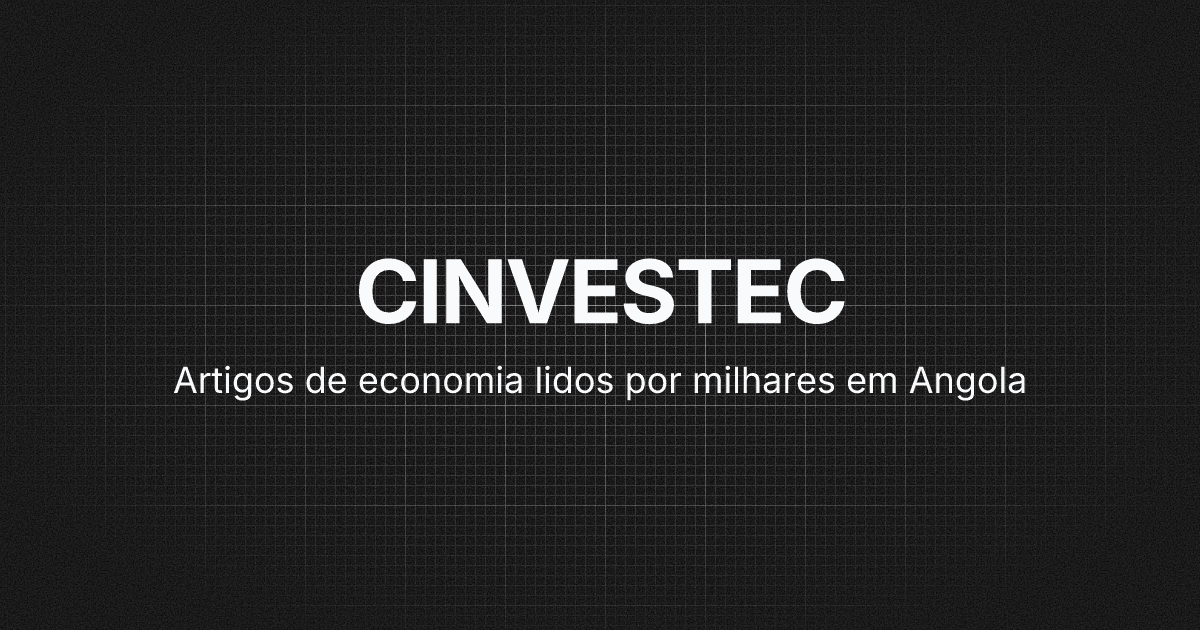
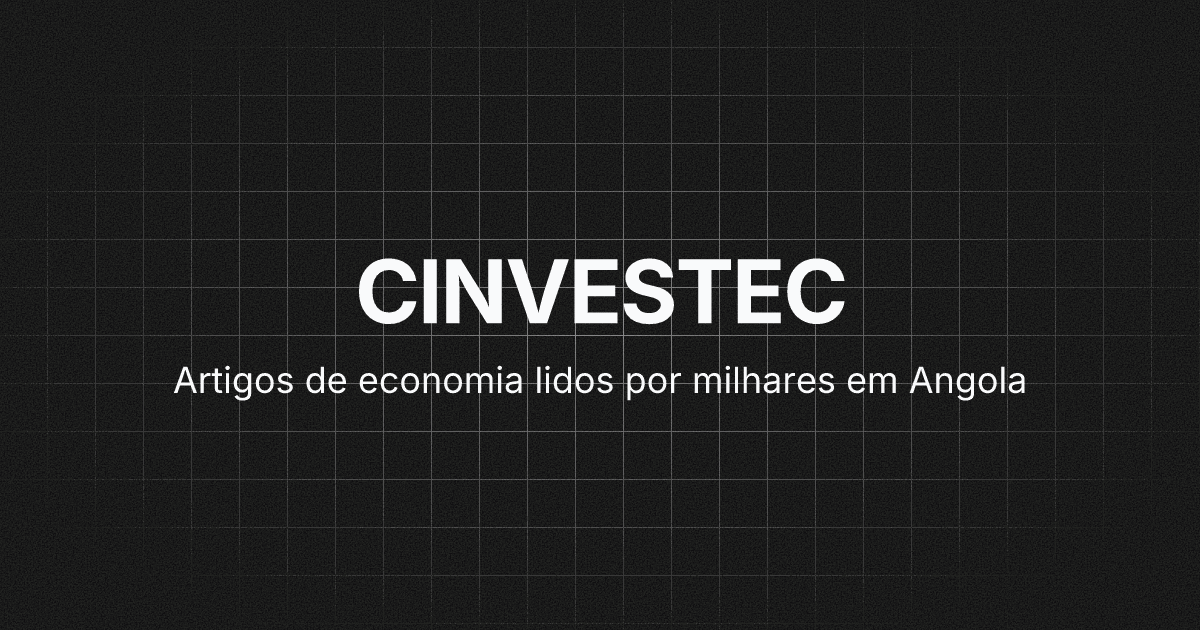
feat: update portfolio content and images

Changed region(s): [[0.1542, 0.1508, 0.8633, 0.8444], [0.8325, 0.6333, 0.8633, 0.6635], [0.0925, 0.3016, 0.1233, 0.3317]]

diff --git a/src/lib/data.tsx b/src/lib/data.tsx
@@ -25,56 +25,45 @@ export const links = [
 
 export const projectsData = [
   {
-    image: '/images/chat-bull.png',
-    title: 'Chat Bull - chat.bull.africa',
-    description:
-      'Devido à falta de ferramentas acessíveis para jovens empreendedores de IA em África, criou uma aplicação social gratuita e de código aberto, que qualquer pessoa pode auditar, copiar ou melhorar. Já impactou positivamente milhares de pessoas.',
-
-    technologies: ['Next.js 15', 'AI-SDK 5', 'Código Aberto', 'Chat de IA'],
-    links: {
-      preview: 'https://github.com/dreemrworld/chat.bull.africa',
-    },
-  },
-  {
-    image: '/images/nota-bene.png',
-    title: 'Nota Bene – nb.bull.africa',
-    description:
-      'As soluções em nuvem comprometem a privacidade dos seus apontamentos de investigação. Desenvolveu uma app que guarda tudo localmente, no dispositivo do utilizador, sem usar a nuvem. Os dados ficam mais seguros, privados — e o código é aberto.',
-    technologies: ['React', 'Vite', 'TipTap', 'Cloudflare'],
-    links: {
-      preview: 'https://nb.bull.africa',
-    },
-  },
-  {
-    image: '/images/editor-html.png',
-    title: 'Editor de HTML - html.bull.africa',
-    description:
-      'Dependia de um editor online cheio de publicidade. Criou a sua própria versão: limpa, funcional e de código aberto, sem anúncios e com total transparência.',
-    technologies: ['HTML5', 'CSS3', 'JavaScript', 'Cloudflare'],
-    links: {
-      preview: 'https://github.com/dreemrworld/html-wysiwyg',
-    },
-  },
-  {
-    image: '/images/chat-goat.png',
-    title: 'Chat GOAT- chat.goat.africa',
-    description:
-      'Para construir um assistente de IA verdadeiramente útil, criou o Pingo AI: uma aplicação completa, com autenticação e base de dados própria, capaz de responder, raciocinar, traduzir, gerar documentos e programar. É usada por 3 mil pessoas por mês.',
-    technologies: ['Next.js', 'AI-SDK', 'Vercel'],
-    links: {
-      preview: 'https://chat.goat.africa',
-    },
-  },
-  {
     image: '/images/auditoria-publica.png',
     title:
       'Auditoria do Sector Público: ferramentas digitais para aumentar a eficiência e eficácia',
     description:
-      'A auditoria pública carece de inovação metodológica. Desenvolveu uma investigação pioneira sobre auditorias de desempenho com tecnologias emergentes. Foi nomeada para o prémio de melhor pesquisa pelo Tribunal de Contas Europeu e orientada pelo ex-presidente da instituição.',
-    technologies: ['Blockchain', 'IoT', 'IA'],
+      'A auditoria pública carece de inovação metodológica. Desenvolveu uma investigação pioneira sobre auditorias de desempenho com tecnologias emergentes. Foi nomeada para o prémio de melhor pesquisa pelo Tribunal de Contas Europeu.',
+    technologies: ['Blockchain', 'Auditoria', 'IA'],
     links: {
       preview:
         'https://www.agora-parl.org/sites/default/files/palop-publications/PALOP-TL%202022%20Volume%20II.pdf',
+    },
+  },
+  {
+    image: '/images/ecobate.png',
+    title: 'European Conference on Banking and Economy 2024',
+    description:
+      'É necessário mais diálogo sobre as fintechs emergentes. Participou como palestrante convidado na ECOBATE 2024, realizada na University of Winchester e organizada pela Association for Research on Banking and the Economy (ARBE) e pelo Centre for Banking, Finance and Sustainable Development (CBFSD) da University of Southampton.',
+    technologies: ['Fintech', 'Banca', 'Economia'],
+    links: {
+      preview: '',
+    },
+  },
+  {
+    image: '/images/isc-2023.png',
+    title: 'International Scientific Conference on Blockchain 2023',
+    description:
+      'O potencial do blockchain em governança pública merece mais atenção. Apresentou as suas ideias na International Scientific Conference on Blockchain em Manchester organizado pela British Blockchain Association (BBA).',
+    technologies: ['Blockchain', 'Auditoria', 'IA'],
+    links: {
+      preview: '',
+    },
+  },
+  {
+    image: '/images/aru.png',
+    title: 'Reconhecimentos da Anglia Ruskin University',
+    description:
+      'Entre 133 mil alumni, a universidade distingue mensalmente quem se destaca globalmente. Foi nomeado Alumni do Mês de março de 2024 e está nomeado para Alumni do Ano.',
+    technologies: ['Alumni do Mês', 'ARU', 'Mestrado'],
+    links: {
+      preview: '',
     },
   },
   {
@@ -98,28 +87,49 @@ export const projectsData = [
     },
   },
   {
-    image: '/images/ecobate.png',
-    title: 'ECOBATE 2024',
+    image: '/images/chat-bull.png',
+    title: 'Chat Bull - chat.bull.africa',
     description:
-      'É necessário mais diálogo entre África e a Europa sobre finanças e tecnologia. Participou como palestrante convidado na European Conference on Banking and the Economy 2024, em Winchester.',
-    technologies: ['Blockchain', 'IoT', 'IA'],
+      'Devido à falta de ferramentas acessíveis para startups de IA em África, criou um chatbot moderno, gratuito e de código aberto, com armazenamento local, pesquisa na internet e capacidade de ler respostas em voz alta. Já impactou milhares de pessoas.',
+
+    technologies: ['Next.js', 'IA', 'Cloudflare'],
     links: {
-      preview: '',
+      preview: 'https://github.com/dreemrworld/chat.bull.africa',
     },
   },
   {
-    image: '/images/isc-2023.png',
-    title: 'ISC 2023',
+    image: '/images/chat-goat.png',
+    title: 'Chat GOAT- chat.goat.africa',
     description:
-      'O potencial do blockchain em governança pública merece mais atenção. Apresentou as suas ideias na International Scientific Conference on Blockchain em Manchester.',
-    technologies: ['Blockchain', 'IoT', 'IA'],
+      'Para construir um assistente de IA verdadeiramente útil, criou o Pingo AI: uma aplicação completa, com autenticação e base de dados própria, capaz de responder, raciocinar, traduzir, gerar documentos e programar. É usada por 3 mil pessoas por mês.',
+    technologies: ['Next.js', 'IA', 'Vercel'],
     links: {
-      preview: '',
+      preview: 'https://chat.goat.africa',
+    },
+  },
+  {
+    image: '/images/nota-bene.png',
+    title: 'Nota Bene – nb.bull.africa',
+    description:
+      'As soluções em nuvem comprometem a privacidade dos seus apontamentos de investigação. Desenvolveu uma app que guarda tudo localmente, no dispositivo do utilizador, sem usar a nuvem. Os dados ficam mais seguros, privados — e o código é aberto.',
+    technologies: ['React', 'Vite', 'TipTap', 'Cloudflare'],
+    links: {
+      preview: 'https://nb.bull.africa',
+    },
+  },
+  {
+    image: '/images/editor-html.png',
+    title: 'Editor de HTML - html.bull.africa',
+    description:
+      'Dependia de um editor online cheio de publicidade. Criou a sua própria versão: limpa, funcional e de código aberto, sem anúncios e com total transparência.',
+    technologies: ['HTML5', 'CSS3', 'JavaScript', 'Cloudflare'],
+    links: {
+      preview: 'https://github.com/dreemrworld/html-wysiwyg',
     },
   },
   {
     image: '/images/history-finance.png',
-    title: 'History of Finance - Medici to BTC',
+    title: 'History of Finance: from Medici to BTC',
     description:
       'Prever crises exige entender os ciclos históricos. Criou um infográfico que mapeia bolhas financeiras ao longo dos séculos — para facilitar previsões mais informadas.',
     technologies: ['História', 'Finanças', 'Bolhas'],
@@ -128,18 +138,8 @@ export const projectsData = [
     },
   },
   {
-    image: '/images/aru.png',
-    title: 'Reconhecimentos da Anglia Ruskin University',
-    description:
-      'Entre 133 mil alumni, a universidade distingue mensalmente quem se destaca globalmente. Foi nomeado Alumni do Mês de março de 2024 e está nomeado para Alumni do Ano.',
-    technologies: ['Alumni do Mês', 'Anglia Ruskin University', 'Mestrado'],
-    links: {
-      preview: '',
-    },
-  },
-  {
     image: '/images/currency.png',
-    title: 'Currency Converter Pro',
+    title: 'Conversor de moeda',
     description:
       'Em Angola, acompanhar as flutuações cambiais é essencial mas muitas ferramentas são lentas ou pagas. Criou uma app leve e gratuita que mostra mais de 100 moedas em tempo real, com gráficos históricos para análise rápida e informada.',
     technologies: ['Vibe Coding', 'APIs de Câmbio', 'Gráficos Interativos'],
@@ -169,6 +169,26 @@ export const projectsData = [
     ],
     links: {
       preview: 'https://tca-es5.pages.dev/',
+    },
+  },
+  {
+    image: '/images/loja.png',
+    title: 'Loja online de tecnologia',
+    description:
+      'Devido à falta de templates de e‑commerce simples, completos e gratuitos para mercados emergentes, criou uma loja demo funcional com HTML, CSS, JavaScript e API integrada — incluindo página de checkout realista. É um modelo pronto a usar por qualquer empreendedor que queira vender produtos online sem depender de plataformas pagas.',
+    technologies: ['HTML', 'CSS', 'Javascript'],
+    links: {
+      preview: 'https://shopgoat.pages.dev',
+    },
+  },
+  {
+    image: '/images/catalogo.png',
+    title: 'Catálogo digital - shop.goat.africa',
+    description:
+      'Gerir um catálogo de produtos em Angola é desafiante sem soluções acessíveis. Desenvolveu um website de catálogo que se atualiza automaticamente a partir de uma folha do Google Sheets. Basta editar a tabela para que o site reflita as mudanças em tempo real, tornando-o ideal para pequenos negócios em contextos de recursos limitados.',
+    technologies: ['HTML', 'CSS', 'Javascript'],
+    links: {
+      preview: 'https://shop.goat.africa',
     },
   },
 ] as const;

diff --git a/src/app/layout.tsx b/src/app/layout.tsx
@@ -34,7 +34,7 @@ export const metadata: Metadata = {
     siteName: siteConfig.title, // Often the same as the main title
     images: [
       {
-        url: `${siteConfig.url}/images/og-image.jpg`, // Absolute URL to your OG image
+        url: `${siteConfig.url}/images/og-image.png`, // Absolute URL to your OG image
         width: 1200, // Recommended width
         height: 630, // Recommended height
         alt: siteConfig.title, // Alt text for accessibility and SEO
@@ -48,14 +48,16 @@ export const metadata: Metadata = {
     card: 'summary_large_image', // Use 'summary_large_image' for a prominent image
     title: siteConfig.title,
     description: siteConfig.description,
-    images: [`${siteConfig.url}/images/og-image.jpg`], // Absolute URL to your OG image
+    images: [`${siteConfig.url}/images/og-image.png`], // Absolute URL to your OG image
   },
 };
 const RootLayout = ({ children }: PropsWithChildren) => {
   return (
     <html lang="en" suppressHydrationWarning>
       <body className={cn('min-h-screen font-sans', fonts)}>
-        <div className="fixed left-0 top-0 z-[-2] size-full bg-white bg-[radial-gradient(100%_50%_at_50%_0%,rgba(0,163,255,0.13)_0,rgba(0,163,255,0)_50%,rgba(0,163,255,0)_100%)] dark:bg-gray-950 dark:bg-[radial-gradient(100%_50%_at_50%_0%,rgba(0,163,255,0.05)_0,rgba(0,163,255,0)_50%,rgba(0,163,255,0)_100%)]" />
+        <div className="fixed left-0 top-0 z-[-2] size-full bg-white dark:bg-gray-950">
+          <div className="absolute size-full bg-[radial-gradient(#e5e7eb_1px,transparent_1px)] [background-size:16px_16px] [mask-image:radial-gradient(ellipse_50%_50%_at_50%_50%,#000_30%,transparent_100%)] dark:bg-[radial-gradient(#374151_1px,transparent_1px)]" />
+        </div>
         <ThemeProvider attribute="class">
           <ActiveSectionProvider>
             {children}

diff --git a/src/lib/site-config.ts b/src/lib/site-config.ts
@@ -1,12 +1,12 @@
 import { env } from '@/env.mjs';
 
 export const siteConfig = {
-  title: 'Carlos Araújo | Programador Full Stack',
+  title: 'Carlos Araújo | Portfólio',
   description:
-    'Olá, sou o Carlos Araújo, um empreendedor tecnológico em Angola. Bem-vindo ao meu perfil de programador. Vamos conectar.',
+    'Fundador da startup angolana Gestão Otimização e Aceleração Tecnológica (GOAT). Disponível para consultoria técnica, transformação digital e desenvolvimento de software.',
   keywords: [
     'Carlos Araújo',
-    'Programador Full Stack',
+    'Programador ',
     'Angola',
     'React',
     'Next.js',
@@ -21,10 +21,12 @@ export const siteConfig = {
     'Projetos',
     'Website',
     'Aplicações Web',
-    'Programador',
+    'Consultoria empresarial',
     'Código',
     'Programação',
     'Entusiasta da Tecnologia',
+    'Inteligência Artificial',
+    'Auditoria Pública',
   ],
   url: env.SITE_URL || 'https://carlos.goat.africa',
   googleSiteVerificationId: env.GOOGLE_SITE_VERIFICATION_ID || '',

diff --git a/src/components/project.tsx b/src/components/project.tsx
@@ -39,7 +39,7 @@ export const Project = ({ project, index }: TProps) => {
         once: true,
       }}
       custom={index}
-      className="flex flex-col rounded border p-5"
+      className="bg-background/80 flex flex-col rounded-lg border border-white/20 p-5 shadow-md backdrop-blur-md"
     >
       <Link
         href={links.preview}
@@ -59,7 +59,10 @@ export const Project = ({ project, index }: TProps) => {
       <p className="text-muted-foreground mb-2 mt-1">{description}</p>
       <div className="flex flex-wrap gap-2">
         {technologies.map((tech) => (
-          <span className="rounded-full border px-3 py-1 text-sm" key={tech}>
+          <span
+            className="bg-card/50 rounded-full border border-gray-400/30 px-3 py-1 text-sm backdrop-blur-sm"
+            key={tech}
+          >
             {tech}
           </span>
         ))}

diff --git a/src/components/about.tsx b/src/components/about.tsx
@@ -24,7 +24,7 @@ export const About = () => {
           O Carlos Araújo é Mestre em Gestão Empresarial, Pós-Graduado em
           Finanças Públicas e Licenciado em Empreendedorismo. Mora em Angola
           onde presta serviço de consultoria empresarial e faz pesquisa e
-          desenvolvimento de aplicações de inteligência artificial. Sua
+          desenvolvimento de aplicações de inteligência artificial. A sua
           investigação em auditoria pública foi distinguida pelo Tribunal de
           Contas Europeu e apresentou em conferências internacionais em
           Manchester, Winchester e além, sobre blockchain, finanças públicas e o

diff --git a/README.md b/README.md
@@ -6,7 +6,7 @@ Um website de portfólio de programador moderno e minimalista de página única 
 
 Visite a versão ao vivo em: [https://carlos.goat.africa](https://carlos.goat.africa)
 
-![og-image](public/images/og-image.jpg)
+![og-image](public/images/og-image.png)
 
 ## ✨ Funcionalidades
 
